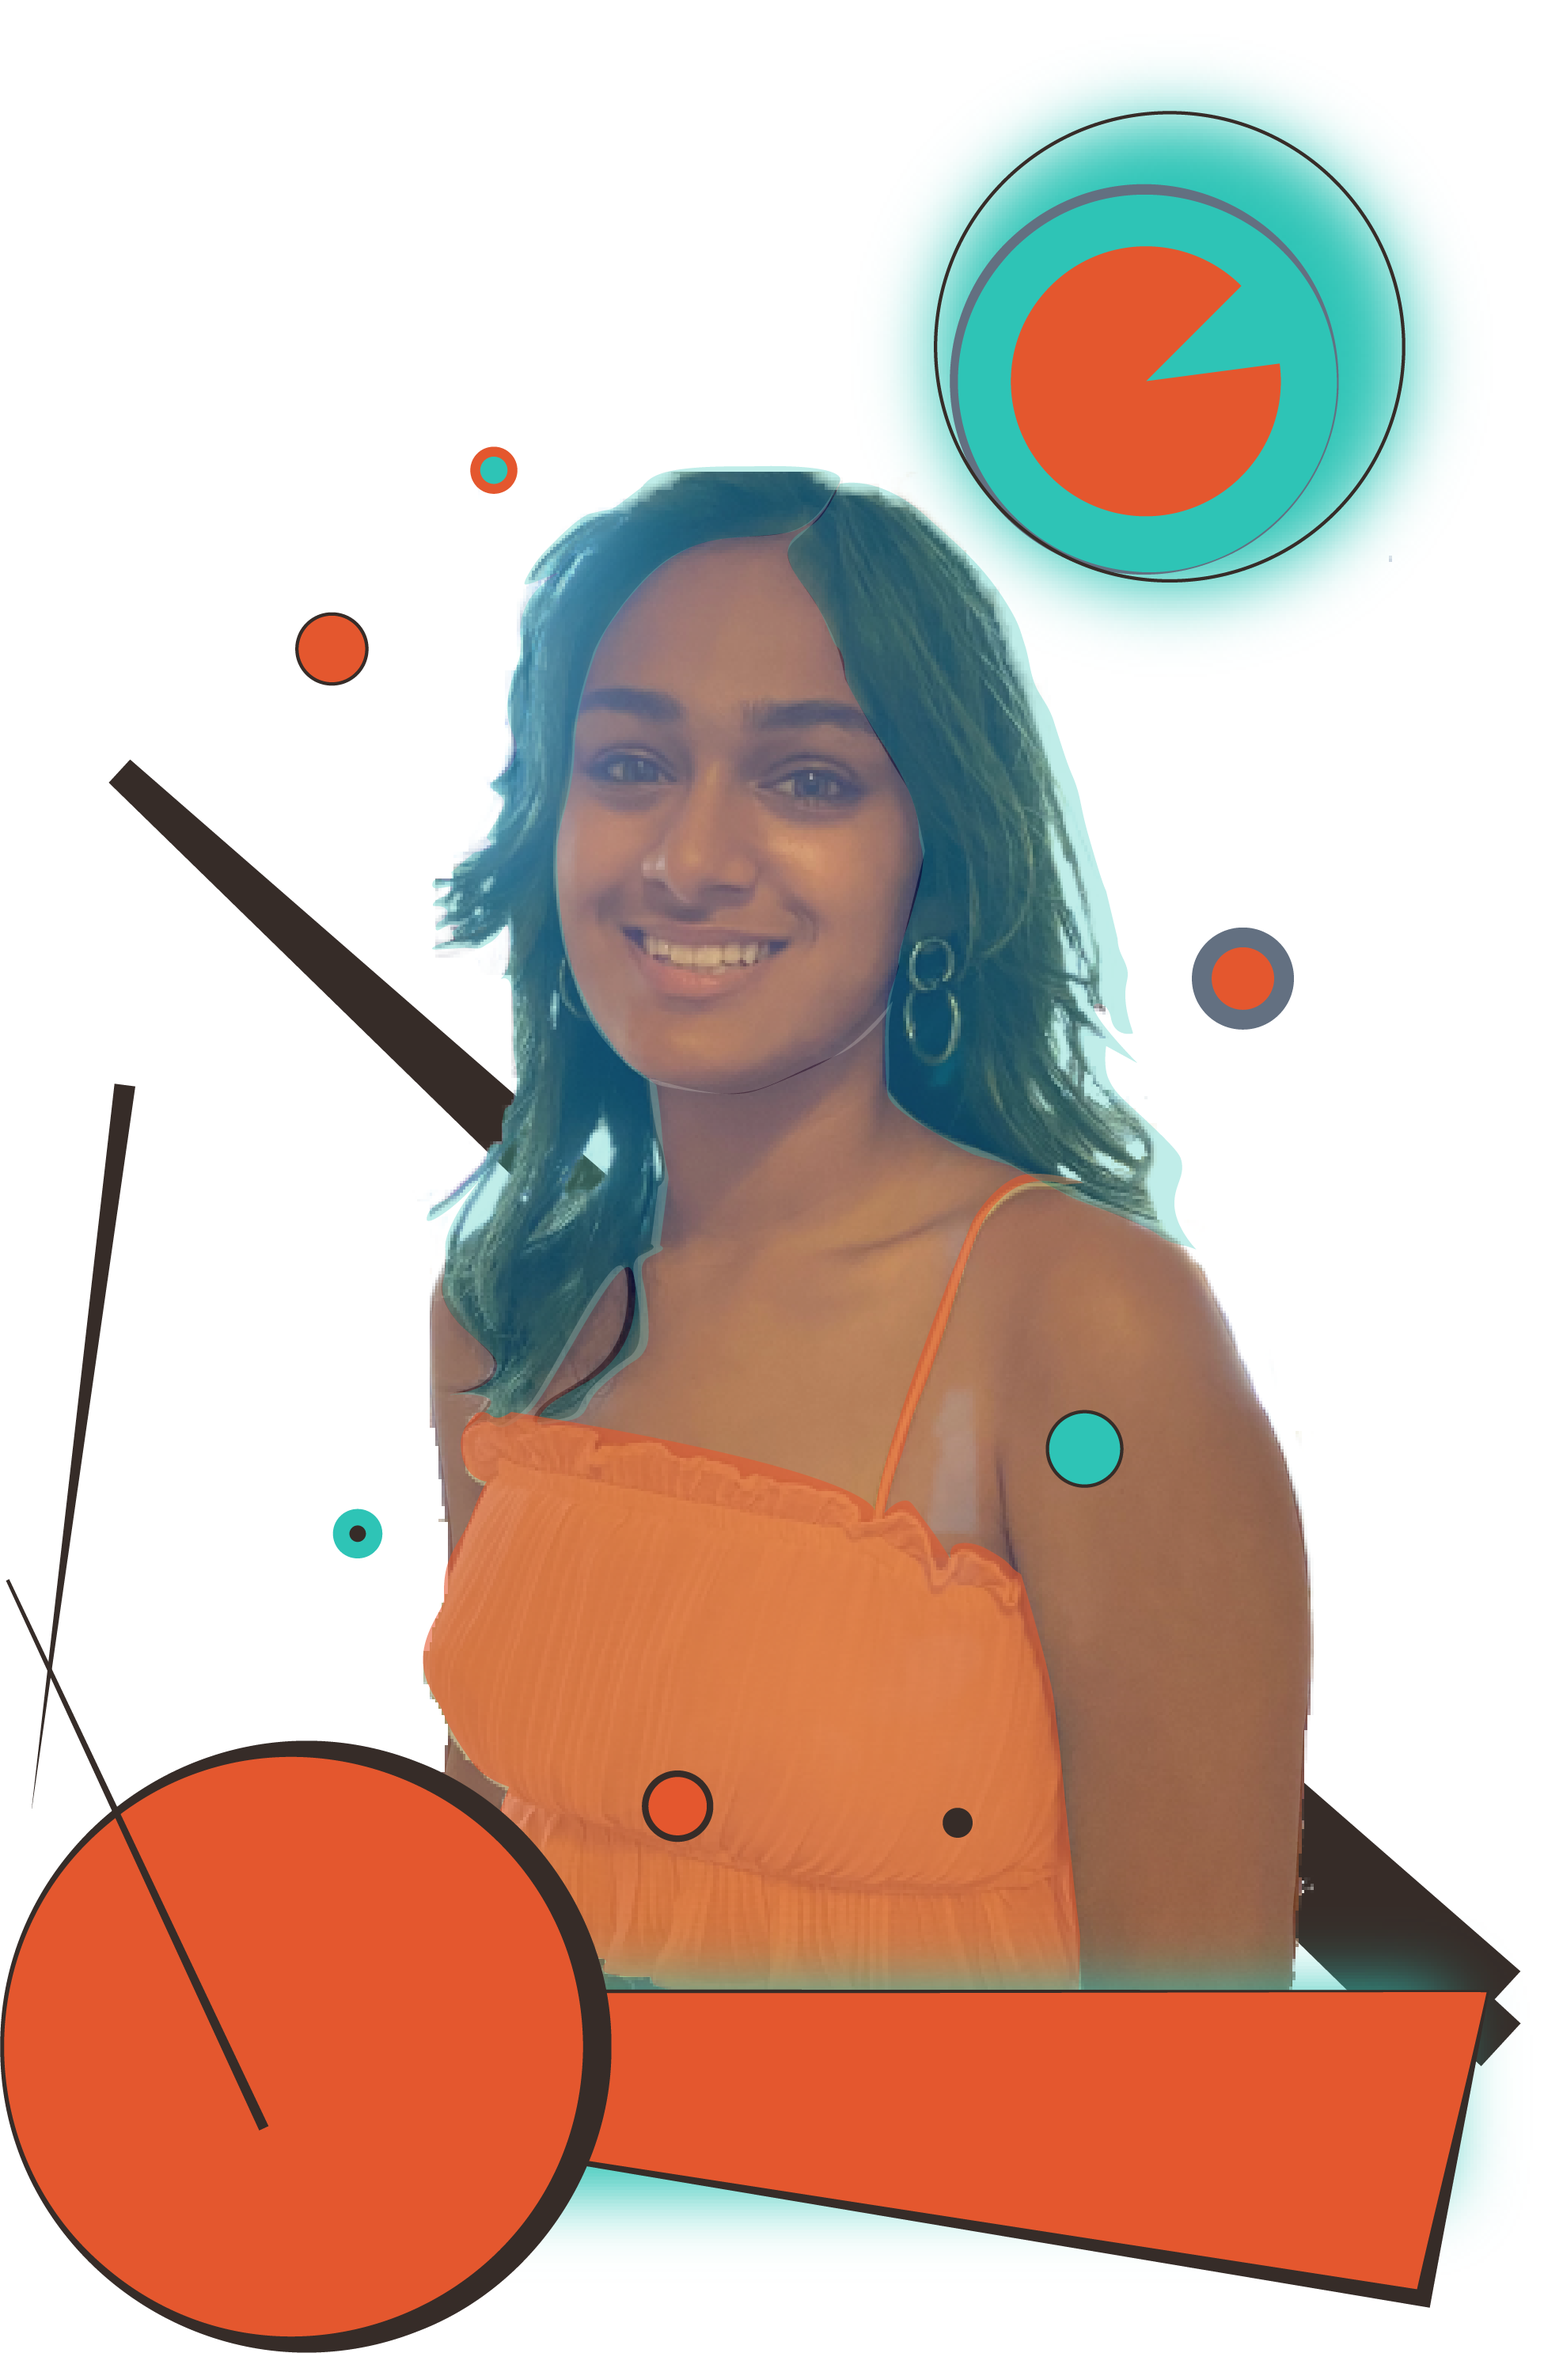
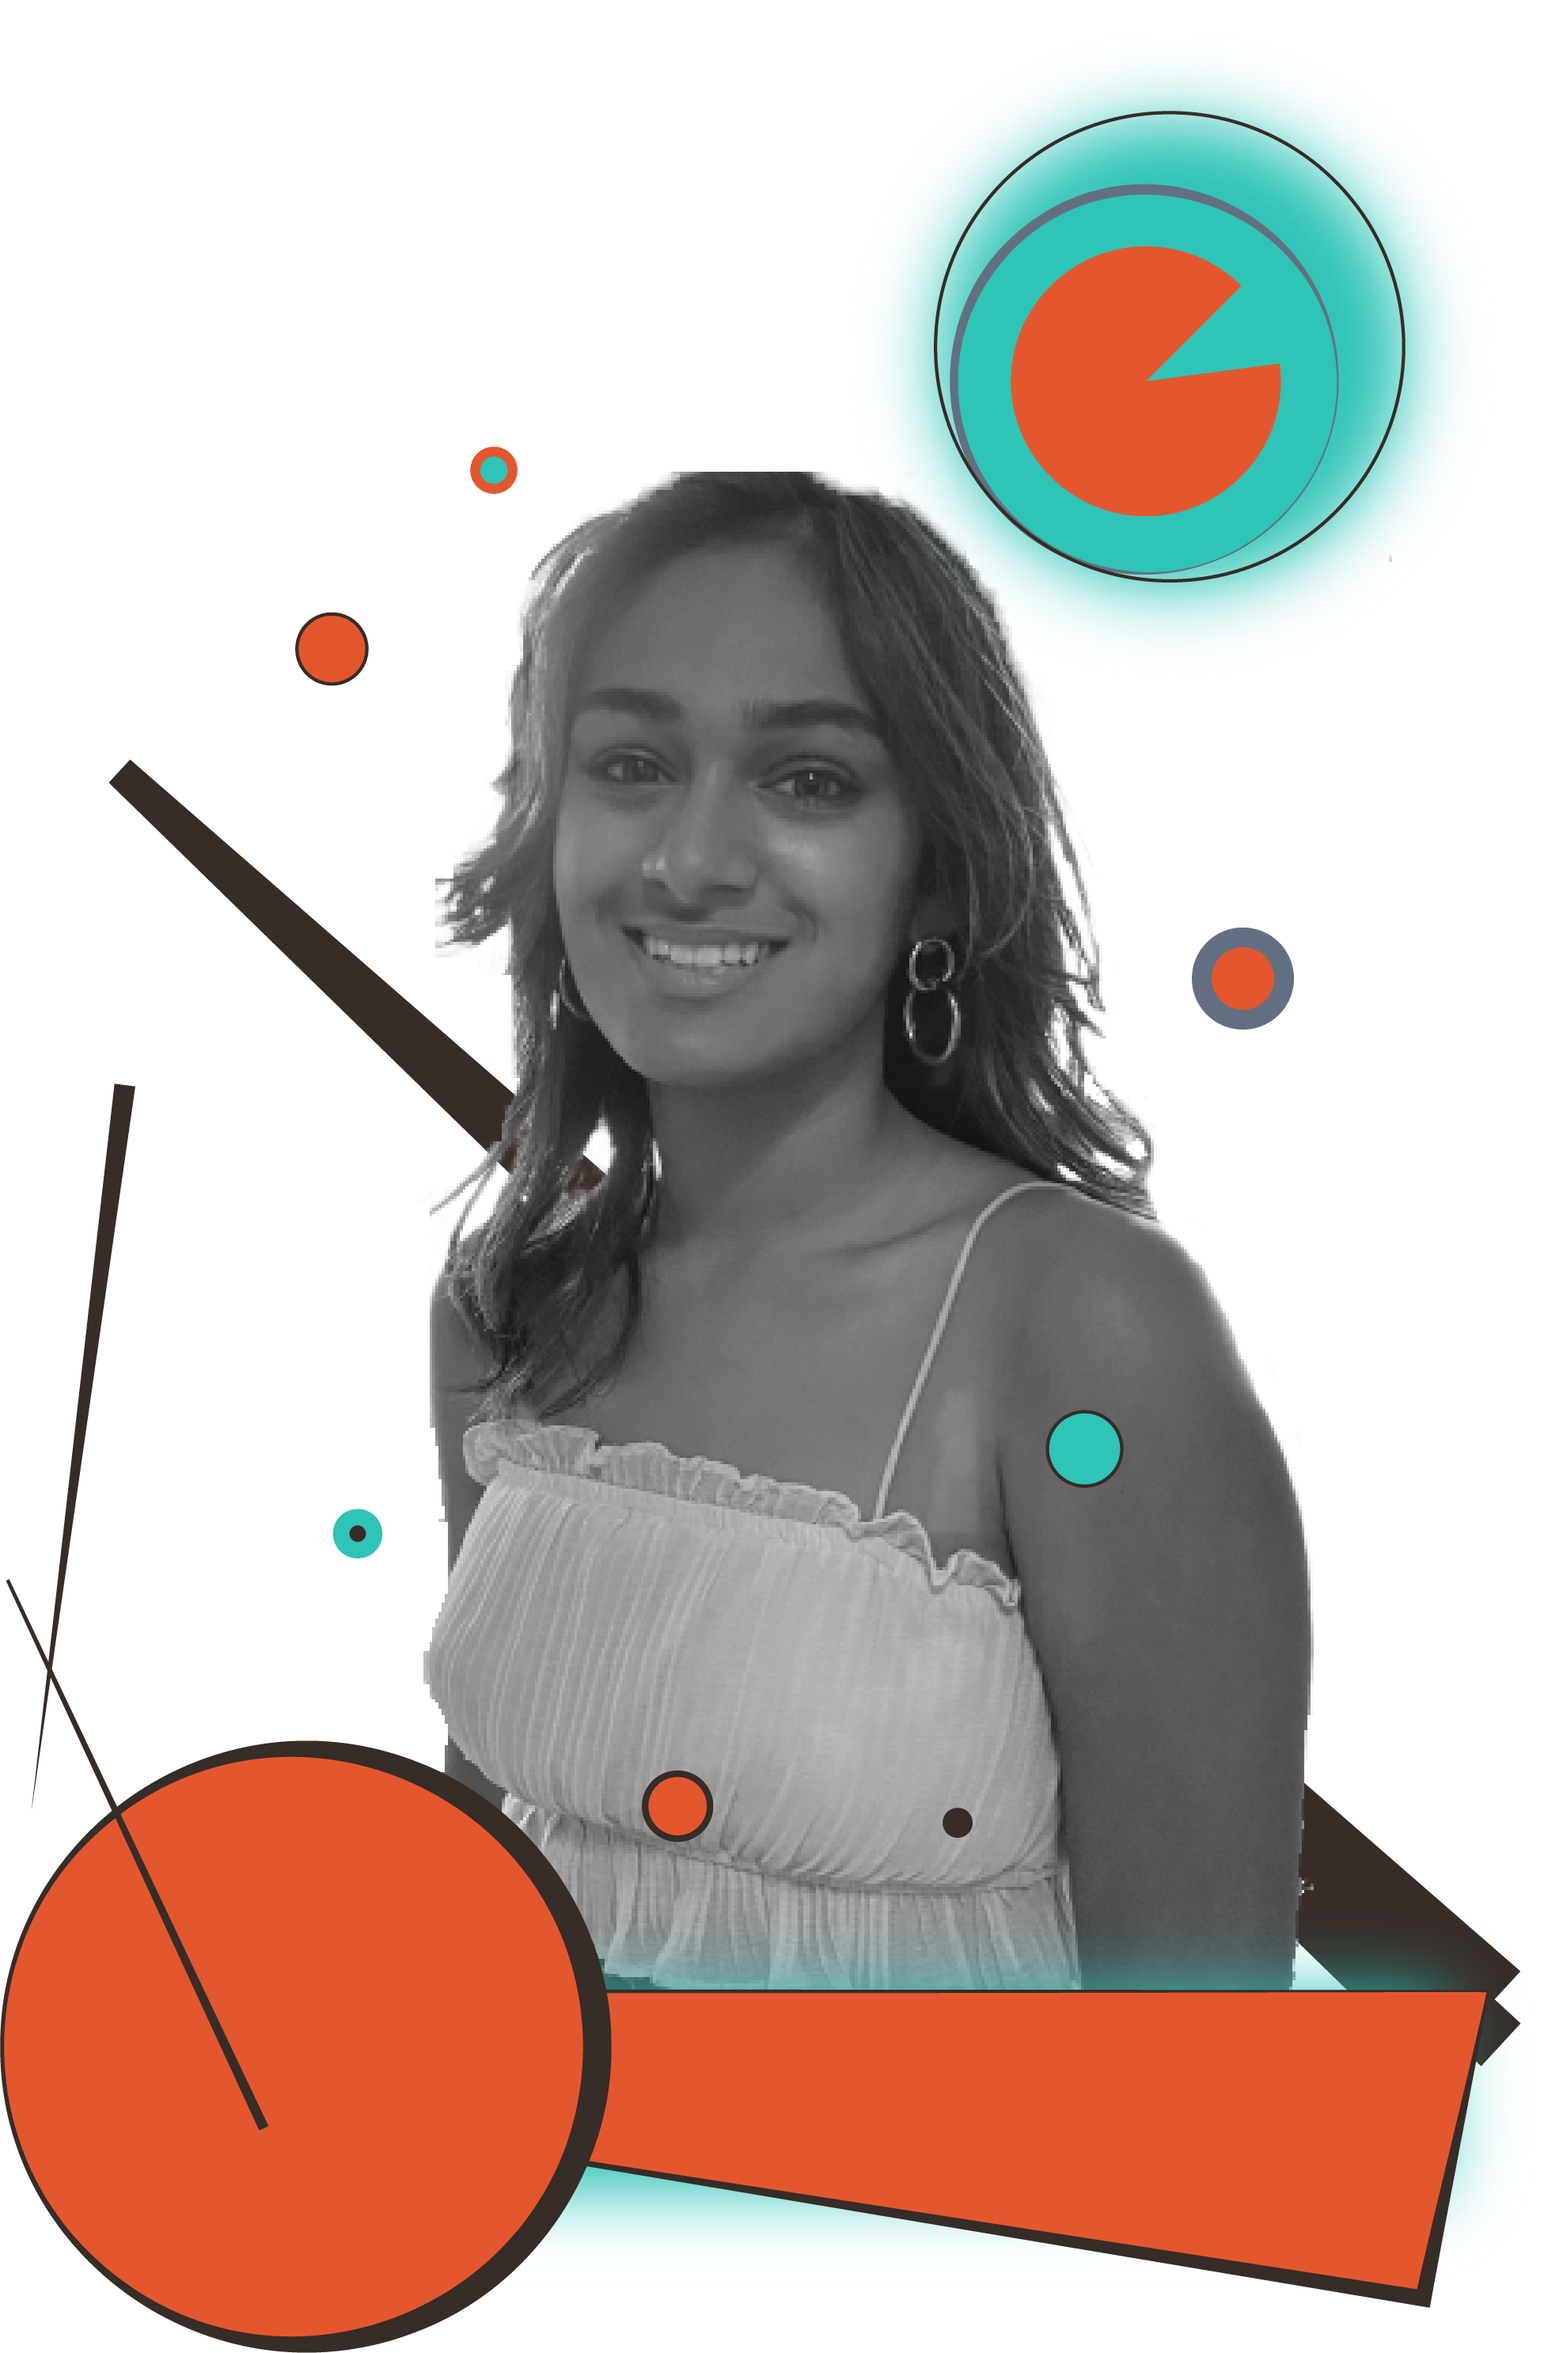
image fix #2

Changed region(s): [[0.2471, 0.1857, 0.8648, 0.8665]]

diff --git a/src/pages/Home.css b/src/pages/Home.css
@@ -1,0 +1,31 @@
+
+@media screen and (max-width: 600px){
+    .Home-page {
+        flex-direction: column-reverse;
+        height: calc(100% + 25vh);
+        width:100%; 
+        justify-content: flex-end;
+}
+    .Home-text {
+        flex: 0 1 100vw;
+        justify-content: center;
+        margin: var(--m);
+    }
+    .Home-text h3 {background-color: rgba(46, 196, 182, 0.3); padding: var(--s); height:fit-content;}
+}
+/* .u-textWrapper {
+    width: 80%;
+} */
+
+@media screen and (max-width: 880px){
+    .Home-text {padding-bottom: 70px ;}
+}
+
+@media screen and (min-width: 600px){
+    .Home-page {
+        background: url("../../public/front-page-border.png");
+        background-repeat: no-repeat;
+        background-position: left bottom;
+        background-size: 100%;
+    }
+}

diff --git a/src/App.tsx b/src/App.tsx
@@ -2,6 +2,7 @@ import React from 'react';
 import { BrowserRouter as Router, Routes, Route } from 'react-router-dom';
 import './App.css';
 import AboutMe from './pages/AboutMe';
+import Home from './pages/Home';
 // import Projects from './pages/Projects';
 // import Footer from './modules/Footer';
 
@@ -10,8 +11,8 @@ function App() {
     <Router>
     <div className="App">
       <Routes>
-      {/* <Route path='/' element={<Main />}/> */}
-      <Route path='/' element={<AboutMe />}/>
+      <Route path='/' element={<Home />}/>
+      <Route path='/about-me' element={<AboutMe />}/>
       {/* <Route path='/projects' element={<Projects />}/> */}
     </Routes>
     </div>

diff --git a/src/pages/AboutMe.css b/src/pages/AboutMe.css
@@ -5,6 +5,7 @@
     justify-content: center;
     align-items: center;
     flex-wrap: row;
+    flex:1;
 }
 
 .AboutMe-page img {
@@ -15,11 +16,7 @@
     height: 40vh;
     padding: var(--m);
 }
-/* 
-.AboutMe-img img {
-    width: 100%;
-    height: auto;
-} */
+
 
 .AboutMe-text {
     margin: var(--l);
@@ -62,7 +59,11 @@
         justify-content: center;
         margin: var(--m);
     }
-    .AboutMe-text h3 {background-color: rgba(46, 196, 182, 0.3); padding: var(--s); height:fit-content;}
+    .AboutMe-text h3 {
+        background-color: rgba(46, 196, 182, 0.3);
+        padding: var(--s);
+        height:fit-content;
+    }
 }
 /* .u-textWrapper {
     width: 80%;

diff --git a/src/modules/NavBar.tsx b/src/modules/NavBar.tsx
@@ -14,10 +14,10 @@ const NavBar = () => {
                 <Link  className='nav-button u-link' to="/">Home</Link>
             </li>
             <li className='u-inlineBlock'>
-                <Link  className='nav-button u-link' to="../pages/AboutMe.tsx">About Me</Link>
+                <Link  className='nav-button u-link' to="../about-me">About Me</Link>
             </li>
             <li className='u-inlineBlock'>
-                <Link className='nav-button u-link' to="../pages/Projects.tsx">Projects</Link>
+                <Link className='nav-button u-link' to="../projects">Projects</Link>
             </li>
         </ul>
     </div>

diff --git a/src/pages/Home.tsx b/src/pages/Home.tsx
@@ -1,0 +1,21 @@
+import React from 'react';
+import NavBar from '../modules/NavBar';
+import Footer from '../modules/Footer';
+import "./Home.css";
+
+
+const Home = () => {
+    return (
+        <div className='u-pageContainer'>
+            <NavBar />
+            <div className='Home-page'>
+                <h3 className='Home-text'>
+                    Shreya Reshamwala
+                </h3>
+            </div>
+            <Footer />
+        </div>
+    );
+}
+
+export default Home;
